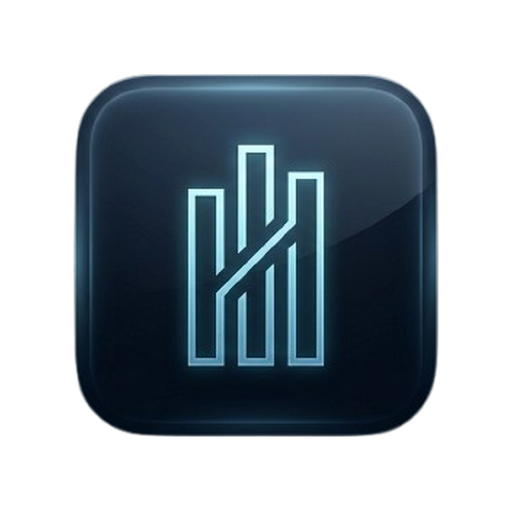
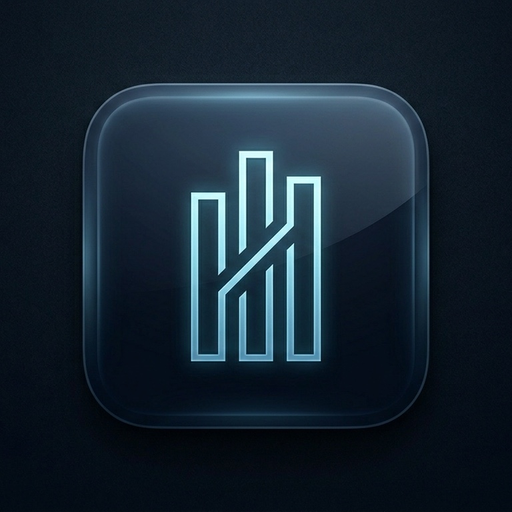
Corregir icono y safe area de la app

diff --git a/components/shell/app-shell.tsx b/components/shell/app-shell.tsx
@@ -1,23 +1,23 @@
 import type { ReactNode } from 'react';
 
 import { BottomNav } from '@/components/navigation/bottom-nav';
-import { PeriodToolbar } from '@/components/navigation/period-toolbar';
-import type { Period } from '@/lib/utils/period';
 
-export function AppShell({ children, period }: { children: ReactNode; period: Period }) {
+export function AppShell({ children }: { children: ReactNode }) {
   return (
-    <div className="min-h-screen bg-[radial-gradient(circle_at_top,_rgba(111,159,255,0.18),_transparent_28%),radial-gradient(circle_at_bottom,_rgba(90,255,177,0.08),_transparent_20%),linear-gradient(180deg,_#09101f_0%,_#050814_100%)] text-white">
-      <div className="mx-auto flex min-h-screen w-full max-w-md flex-col px-4 pb-6 pt-5">
+    <div className="min-h-[100dvh] bg-[radial-gradient(circle_at_top,_rgba(111,159,255,0.18),_transparent_28%),radial-gradient(circle_at_bottom,_rgba(90,255,177,0.08),_transparent_20%),linear-gradient(180deg,_#09101f_0%,_#050814_100%)] text-white">
+      <div
+        className="mx-auto flex min-h-[100dvh] w-full max-w-md flex-col px-4"
+        style={{
+          paddingTop: 'calc(env(safe-area-inset-top, 0px) + 20px)',
+          paddingBottom: 'calc(env(safe-area-inset-bottom, 0px) + 24px)'
+        }}
+      >
         <div className="pointer-events-none absolute inset-0 overflow-hidden">
           <div className="absolute left-1/2 top-0 h-72 w-72 -translate-x-1/2 rounded-full bg-cyan-400/12 blur-3xl" />
           <div className="absolute bottom-24 right-0 h-48 w-48 rounded-full bg-blue-500/10 blur-3xl" />
         </div>
 
-        <div className="relative z-10 flex-1 space-y-5">
-          <PeriodToolbar period={period} />
-          <main className="space-y-5">{children}</main>
-        </div>
-
+        <main className="relative z-10 flex-1 space-y-5">{children}</main>
         <BottomNav />
       </div>
     </div>

diff --git a/app/layout.tsx b/app/layout.tsx
@@ -1,46 +1,39 @@
 import type { Metadata, Viewport } from 'next';
-
-import './globals.css';
-
-const APP_NAME = 'App Contabilidad Diaria';
-const APP_DESCRIPTION = 'Control personal de gastos e ingresos con una experiencia móvil, visual y premium.';
+import '@/app/globals.css';
 
 export const metadata: Metadata = {
-  applicationName: APP_NAME,
-  title: APP_NAME,
-  description: APP_DESCRIPTION,
-  manifest: '/manifest.webmanifest',
+  title: 'App Contabilidad Diaria',
+  description: 'Control diario de gastos e ingresos',
+  applicationName: 'App Contabilidad Diaria',
   appleWebApp: {
     capable: true,
     statusBarStyle: 'black-translucent',
-    title: APP_NAME
-  },
-  formatDetection: {
-    telephone: false,
-    address: false,
-    email: false
+    title: 'Contabilidad'
   },
   icons: {
-    apple: '/apple-touch-icon.png',
     icon: [
-      { url: '/icon-192.png', sizes: '192x192', type: 'image/png' },
-      { url: '/icon-512.png', sizes: '512x512', type: 'image/png' }
-    ]
-  },
-  other: {
-    'mobile-web-app-capable': 'yes',
-    'apple-mobile-web-app-capable': 'yes'
+      { url: '/favicon.ico' },
+      { url: '/favicon-16x16.png', sizes: '16x16', type: 'image/png' },
+      { url: '/favicon-32x32.png', sizes: '32x32', type: 'image/png' }
+    ],
+    apple: [{ url: '/apple-touch-icon.png', sizes: '180x180', type: 'image/png' }],
+    shortcut: ['/favicon.ico']
   }
 };
 
 export const viewport: Viewport = {
   width: 'device-width',
   initialScale: 1,
+  maximumScale: 1,
   viewportFit: 'cover',
-  themeColor: '#050814'
+  themeColor: '#07111f'
 };
 
-export default function RootLayout({ children }: Readonly<{ children: React.ReactNode }>) {
+export default function RootLayout({
+  children
+}: Readonly<{
+  children: React.ReactNode;
+}>) {
   return (
     <html lang="es">
       <body>{children}</body>

diff --git a/app/manifest.ts b/app/manifest.ts
@@ -8,6 +8,7 @@ export default function manifest(): MetadataRoute.Manifest {
     start_url: '/',
     scope: '/',
     display: 'standalone',
+    orientation: 'portrait',
     background_color: '#07111f',
     theme_color: '#07111f',
     icons: [
